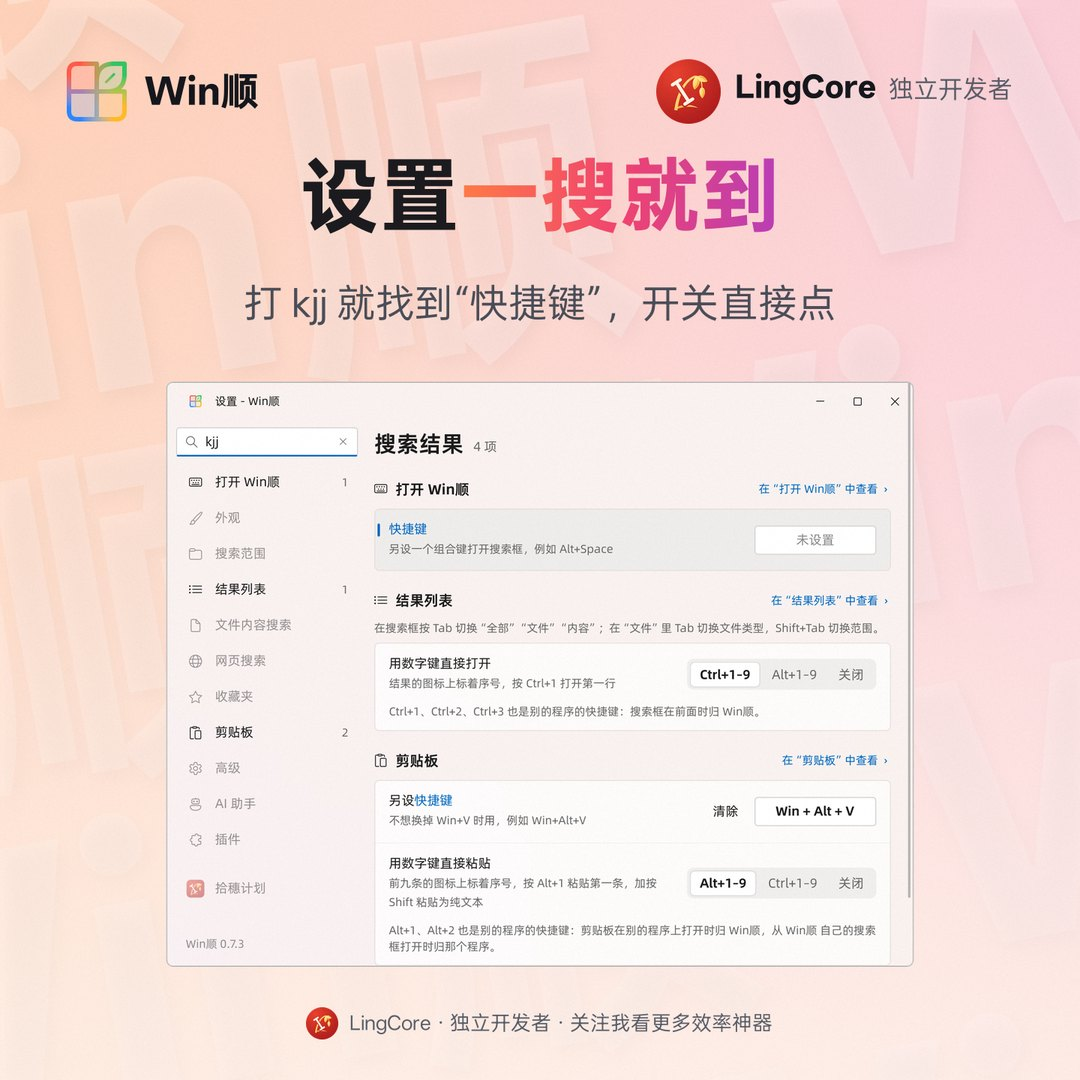
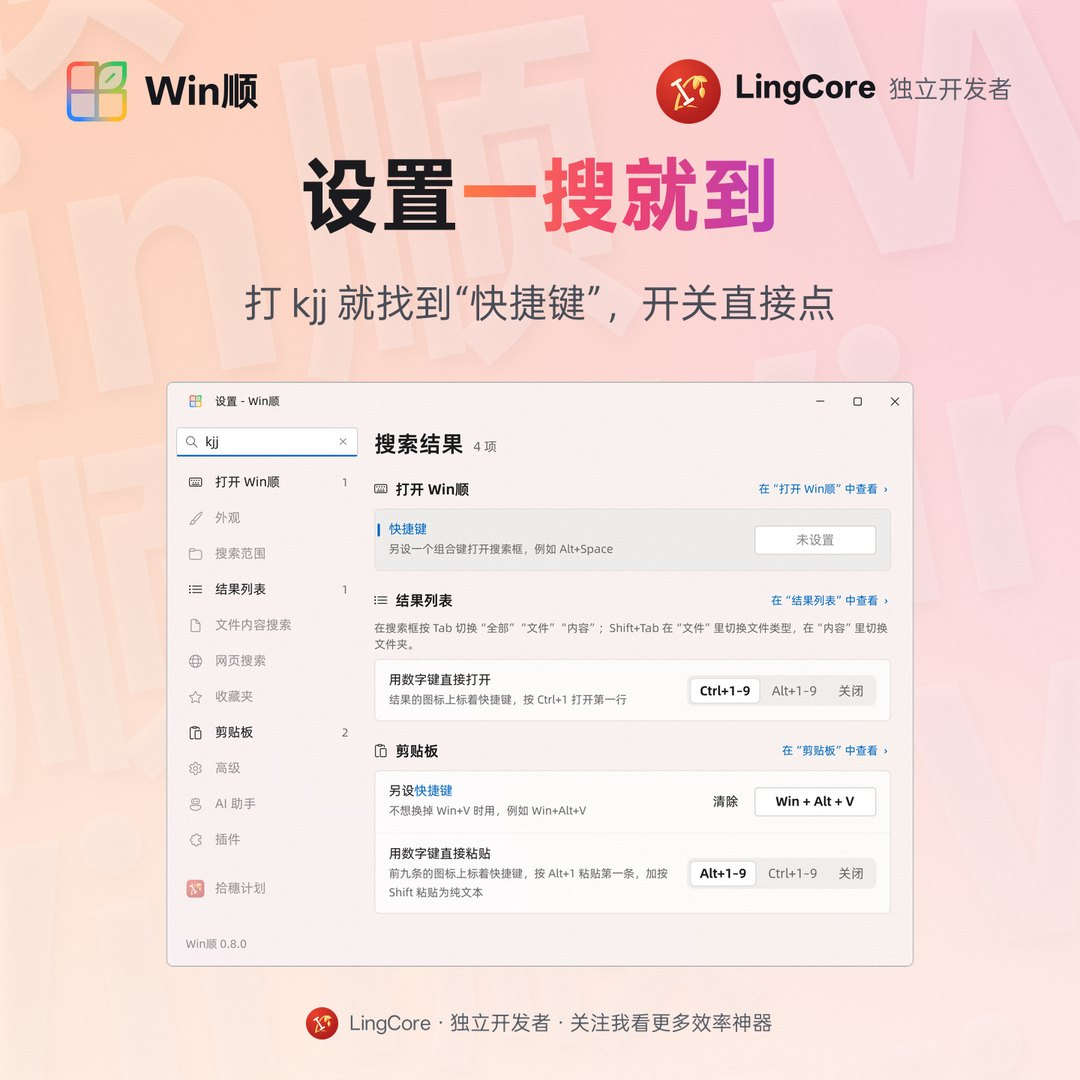
Screenshots for 0.8.0: Tab for the scopes, a dialog behind no longer shot
The scenes switch scopes with Tab (Shift+Tab is the row of kinds since
#16) and clear the query `open` leaves after the caret. capture.py took
any #32770 near the launcher for the file dialog of the dialog bar, so an
open licence window of another program put the backdrop behind other
windows and every matte came out opaque; a dialog now has to sit against
the bar, not under it.

diff --git a/tools/screenshots/capture.py b/tools/screenshots/capture.py
@@ -202,6 +202,15 @@ def near(a, b, distance):
     return a[0] < b[2] + distance and b[0] < a[2] + distance and a[1] < b[3] + distance and b[1] < a[3] + distance
 
 
+def overlap(a, b):
+    """How much of the smaller of two rectangles the other covers, 0 to 1."""
+    w = min(a[2], b[2]) - max(a[0], b[0])
+    h = min(a[3], b[3]) - max(a[1], b[1])
+    if w <= 0 or h <= 0:
+        return 0.0
+    return w * h / min((a[2] - a[0]) * (a[3] - a[1]), (b[2] - b[0]) * (b[3] - b[1]))
+
+
 def shoot(delay=0.0, winshun=False, margin=64, tries=12):
     """The window in front, or with `winshun` WinShun's frontmost one (the
     clipboard pops up without taking the focus), and WinShun's windows by it
@@ -221,10 +230,12 @@ def shoot(delay=0.0, winshun=False, margin=64, tries=12):
     def logo(h):
         return max(size(h)) <= 160
     # A file dialog and the bar against it go together, whichever is in front.
+    # The bar sits against the dialog's edge: a dialog that merely lies behind
+    # (another program's, such as a licence window) overlaps it and stays out.
     targets = [main]
     if main in ours:
         targets += [h for h in order if h not in ours and d.class_name(h) == "#32770"
-                    and near(d.frame(h), d.frame(main), 24)]
+                    and near(d.frame(h), d.frame(main), 24) and overlap(d.frame(h), d.frame(main)) < 0.1]
     else:
         targets += [h for h in ours if not logo(h) and near(d.frame(h), d.frame(main), 24)]
     targets += [h for h in ours if logo(h) and any(near(d.frame(h), d.frame(t), 160) for t in targets)]
